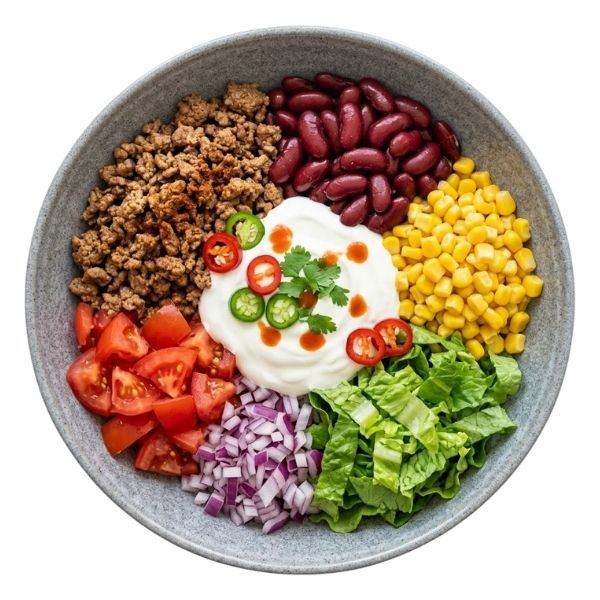
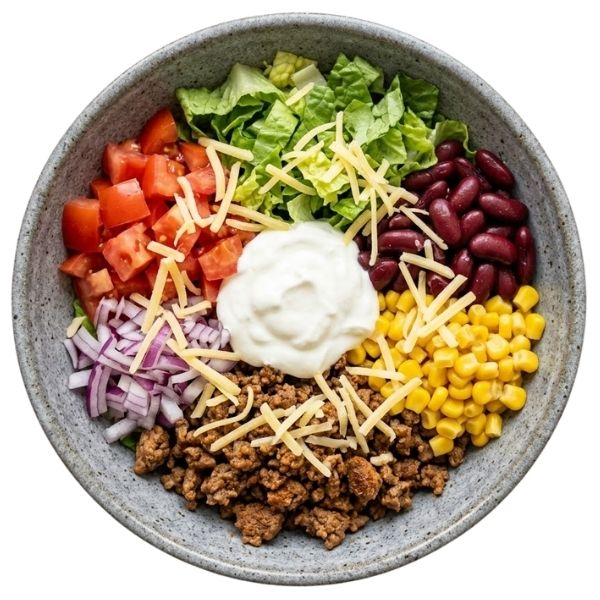
added more fixed meals

diff --git a/src/App.jsx b/src/App.jsx
@@ -1643,11 +1643,17 @@ const MEALS = [
     diet:{meat:0,pork:0,fish:1,dairy:0,egg:1,gluten:0},
     rules:{ 'Frozen veg mix':{min:180,max:230}, 'Oil':{max:10} },
     ings:[['Tuna (drained)',130,25,1.3,0,0,'P'],['Eggs',100,12,10,0,0,'P'],['Frozen veg mix',250,7.8,1.2,32,10.7,'X'],['Oil',10,0,10,0,0,'F']] },
-  { id:'yogurt_mixfruit', name:'Greek Yogurt & Mixed Fruit', band:[350,800], mr:false, vg:null,
+  { id:'yogurt_mixfruit', name:'Greek Yogurt & Mixed Fruit', band:[350,630], mr:false, vg:null,
     diet:{meat:0,pork:0,fish:0,dairy:1,egg:0,gluten:0},
+    rules:{ 'Greek yogurt':{max:500}, 'Frozen fruit mix':{ratioTo:'Greek yogurt',ratio:0.5} },
     ings:[['Greek yogurt',400,36,20,16,0,'P'],['Frozen fruit mix',250,1.8,0,30,9,'S']] },
-  { id:'yogurt_fruit', name:'Greek Yogurt & Fruit', band:[400,950], mr:false, vg:null,
+  { id:'yogurt_almond', name:'Greek Yogurt, Mixed Fruit & Almonds', band:[400,900], mr:false, vg:null,
     diet:{meat:0,pork:0,fish:0,dairy:1,egg:0,gluten:0},
+    rules:{ 'Greek yogurt':{max:500}, 'Frozen fruit mix':{max:250}, 'Almonds':{max:50} },
+    ings:[['Greek yogurt',400,36,20,16,0,'P'],['Frozen fruit mix',250,1.8,0,30,9,'S'],['Almonds',50,11,25,4.6,3,'F']] },
+  { id:'yogurt_fruit', name:'Greek Yogurt & Fruit', band:[470,720], mr:false, vg:null,
+    diet:{meat:0,pork:0,fish:0,dairy:1,egg:0,gluten:0},
+    rules:{ 'Greek yogurt':{max:500}, 'Large apple':{max:220}, 'Large banana':{max:120} },
     ings:[['Greek yogurt',400,36,20,16,0,'P'],['Large apple',210,0.6,0.4,24,5,'S'],['Large banana',135,1.5,0.5,28,3.6,'S']] },
   { id:'cottage_veg', name:'Cottage Cheese Veggie Bowl', band:[300,750], mr:false, vg:null,
     diet:{meat:0,pork:0,fish:0,dairy:1,egg:0,gluten:0},
@@ -1664,22 +1670,25 @@ const MEALS = [
     diet:{meat:0,pork:0,fish:0,dairy:0,egg:0,gluten:1},
     rules:{ 'Firm tofu':{min:100,max:120}, 'Tempeh':{min:55,max:70}, 'Oil':{fix:10} },
     ings:[['Firm tofu',100,9,4.2,2,0.9,'P'],['Seitan',50,13,1.8,2.7,0.9,'P'],['Tempeh',100,20,11,0.5,7,'P'],['Oil',10,0,10,0,0,'F'],['Dressing oil',10,0,10,0,0,'F'],['Tomato',150,1.4,0.3,4.1,1.8,'X'],['Carrot',100,0.9,0.2,6.8,2.8,'X'],['Spinach',50,1.5,0.2,0.7,1.1,'X']] },
-  { id:'tofu_scramble', name:'Tofu Scramble', band:[350,800], mr:false, vg:null,
+  { id:'tofu_scramble', name:'Tofu Scramble', band:[380,570], mr:false, vg:null,
     diet:{meat:0,pork:0,fish:0,dairy:0,egg:0,gluten:0},
+    rules:{ 'Firm tofu':{max:400}, 'Mushrooms':{max:170}, 'Bell pepper':{max:170}, 'Onion':{ratioTo:'Bell pepper',ratio:0.5,max:90}, 'Oil':{max:15} },
     ings:[['Firm tofu',400,36,16.8,8,3.6,'P'],['Mushrooms',150,3,0,4.5,3,'X'],['Onion',150,1.6,0.2,11.5,2.5,'X'],['Bell pepper',150,1.5,0.4,5.8,3.1,'X'],['Oil',10,0,10,0,0,'F']] },
   { id:'tofu_lentil', name:'Tofu & Lentil Bowl', band:[380,600], mr:false, vg:null,
     diet:{meat:0,pork:0,fish:0,dairy:0,egg:0,gluten:0},
     rules:{ 'Smoked tofu':{min:150,max:230}, 'Soy sauce':{min:10,max:15}, 'Hot sauce':{min:5,max:10}, 'Tomato':{min:100,max:110}, 'Cucumber':{min:100,max:110} },
     ings:[['Smoked tofu',200,28,16,1.8,2,'P'],['Lentils (canned)',200,10.8,0.8,28,13,'S'],['Tomato',105,0.9,0.2,2.7,1.2,'X'],['Cucumber',105,0.3,0.1,1.6,0.3,'X'],['Soy sauce',20,1.6,0.1,0.8,0,'F'],['Hot sauce',50,1,0.4,9,0,'F']] },
-  { id:'tofu_hummus', name:'Tofu & Hummus Bowl', band:[350,850], mr:false, vg:null,
+  { id:'tofu_hummus', name:'Tofu & Hummus Bowl', band:[430,565], mr:false, vg:null,
     diet:{meat:0,pork:0,fish:0,dairy:0,egg:0,gluten:0},
+    rules:{ 'Smoked tofu':{max:200}, 'Hummus':{max:100}, 'Tomato':{min:90,max:120}, 'Cucumber':{min:90,max:120}, 'Carrot':{min:90,max:120} },
     ings:[['Smoked tofu',200,28,16,1.8,2,'P'],['Hummus',100,7.8,18,9.5,5.5,'F'],['Tomato',100,0.9,0.2,2.7,1.2,'X'],['Cucumber',100,0.3,0.1,1.6,0.3,'X'],['Carrot',100,0.9,0.2,6.8,2.8,'X']] },
   { id:'pork_mushroom', name:'Pork Tenderloin & Mushroom Skillet', band:[400,460], mr:false, vg:'mushroomskillet',
     diet:{meat:1,pork:1,fish:0,dairy:0,egg:0,gluten:0},
     rules:{ 'Oil':{max:12} },
     ings:[['Pork tenderloin',200,40,6.2,0,0,'P'],['Mushrooms',200,4,0,6,4,'X'],['Oil',10,0,10,0,0,'F'],['Spinach',100,2.9,0.4,1.4,2.2,'X'],['Tomato',100,0.9,0.2,2.7,1.2,'X'],['Carrot',100,0.9,0.2,6.8,2.8,'X']] },
-  { id:'tofu_mushroom', name:'Savory Tofu & Mushroom Skillet', band:[400,900], mr:false, vg:'mushroomskillet', plant:true,
+  { id:'tofu_mushroom', name:'Savory Tofu & Mushroom Skillet', band:[460,680], mr:false, vg:'mushroomskillet', plant:true,
     diet:{meat:0,pork:0,fish:0,dairy:0,egg:0,gluten:0},
+    rules:{ 'Smoked tofu':{max:250}, 'Peanuts':{fix:25}, 'Mushrooms':{min:180,max:230}, 'Oil':{max:12}, 'Spinach':{min:90,max:120}, 'Tomato':{min:90,max:120}, 'Carrot':{min:90,max:120} },
     ings:[['Smoked tofu',200,28,16,1.8,2,'P'],['Peanuts',25,6,11,1.7,1.9,'F'],['Mushrooms',200,4,0,6,4,'X'],['Oil',10,0,10,0,0,'F'],['Spinach',100,2.9,0.4,1.4,2.2,'X'],['Tomato',100,0.9,0.2,2.7,1.2,'X'],['Carrot',100,0.9,0.2,6.8,2.8,'X']] },
 
   // ---------------- LEAN CHICKEN / EGG DAYTIME (with a starch lever so they scale up) ----------------
@@ -1750,8 +1759,9 @@ const MEALS = [
   { id:'burrito_vegan', name:'Vegan Burrito Bowl', band:[400,900], mr:false, vg:'burritolg', plant:true,
     diet:{meat:0,pork:0,fish:0,dairy:0,egg:0,gluten:0},
     ings:[['Plant-based mince',100,14,8.6,9.4,0,'P'],['Kidney beans',150,7.8,0.6,22,6.5,'S'],['Sweet corn',150,3.5,1.8,26,3,'S'],['Soy yogurt',150,5.4,2.7,14.6,1.5,'P'],['Romaine',100,1.2,0.3,1.2,2.1,'X'],['Onion',100,1.1,0.1,7.6,1.7,'X'],['Tomato',150,1.3,0.3,4,1.8,'X']] },
-  { id:'chili_meat', name:'Chili', band:[450,1100], mr:false, vg:'chili',
+  { id:'chili_meat', name:'Chili', band:[500,760], mr:false, vg:'chili',
     diet:{meat:1,pork:0,fish:0,dairy:0,egg:0,gluten:0},
+    rules:{ 'Ground meat':{min:120,max:220}, 'Kidney beans':{min:130,max:260}, 'Oil':{fix:9}, 'Diced tomatoes (can)':{fix:200}, 'Onion':{min:120,max:180}, 'Carrot':{fix:100}, 'Chilli peppers (x2)':{fix:75} },
     ings:[['Ground meat',150,32,10.6,0,0,'P'],['Kidney beans',260,13.5,1,40,11.8,'P'],['Diced tomatoes (can)',400,3.2,0.4,12,4,'F'],['Onion',150,1.6,0.2,11.5,2.5,'X'],['Carrot',100,0.9,0.2,6.8,2.8,'X'],['Chilli peppers (x2)',75,1.5,0.5,4.5,0,'X'],['Oil',10,0,10,0,0,'F']] },
   { id:'chili_vegan', name:'Vegan Chili', band:[500,1150], mr:false, vg:'chili', plant:true,
     diet:{meat:0,pork:0,fish:0,dairy:0,egg:0,gluten:0},
@@ -1788,8 +1798,9 @@ const MEALS = [
   { id:'chicken_sandwiches_apple', name:'Chicken Sandwiches & Apple', band:[450,1100], mr:false, vg:null,
     diet:{meat:1,pork:0,fish:0,dairy:0,egg:1,gluten:1},
     ings:[['Chicken ham',100,22,2.5,1.8,0,'P'],['Bread',120,14,4.2,44,7.2,'S'],['Pickles',75,0.4,0.2,1,0.7,'X'],['Ketchup',50,0.5,0.1,14,0.1,'F'],['Mayo',20,0.2,15,0.1,0,'F'],['Iceberg lettuce',100,0.9,0.2,1.8,1.2,'X'],['Large apple',220,0.6,0.4,24,5,'S']] },
-  { id:'chicken_sandwiches_cucumber', name:'Chicken Sandwiches & Cucumber Salad', band:[450,1050], mr:false, vg:null,
+  { id:'chicken_sandwiches_cucumber', name:'Chicken Sandwiches & Cucumber Salad', band:[620,760], mr:false, vg:null,
     diet:{meat:1,pork:0,fish:0,dairy:0,egg:1,gluten:1},
+    rules:{ 'Chicken ham':{max:175}, 'Bread':{min:120}, 'Pickles':{max:50}, 'Ketchup':{max:20}, 'Mayo':{fix:15}, 'Iceberg lettuce':{max:60}, 'Onion':{max:60}, 'Balsamic vinegar':{max:20} },
     ings:[['Chicken ham',100,22,2.5,1.8,0,'P'],['Bread',120,14,4.2,44,7.2,'S'],['Pickles',75,0.4,0.2,1,0.7,'X'],['Ketchup',50,0.5,0.1,14,0.1,'F'],['Mayo',20,0.2,15,0.1,0,'F'],['Iceberg lettuce',100,0.9,0.2,1.8,1.2,'X'],['Cucumber',200,0.6,0.2,3.2,0.5,'X'],['Onion',100,1.1,0.1,7.6,1.7,'X'],['Balsamic vinegar',50,0.2,0,9,0,'F']] },
   { id:'chicken_instant_noodles', name:'Chicken Instant Veggie Noodles', band:[630,700], mr:false, vg:null,
     diet:{meat:1,pork:0,fish:0,dairy:0,egg:0,gluten:1},
